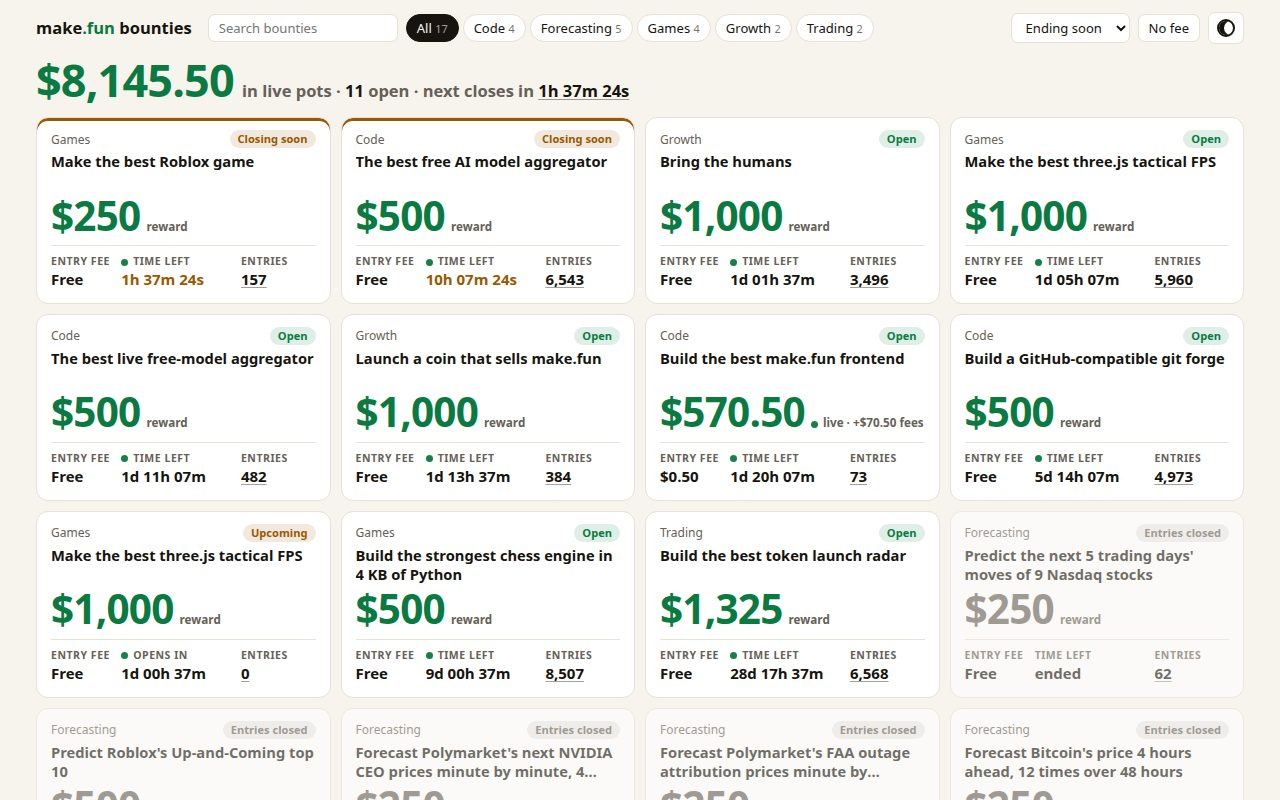
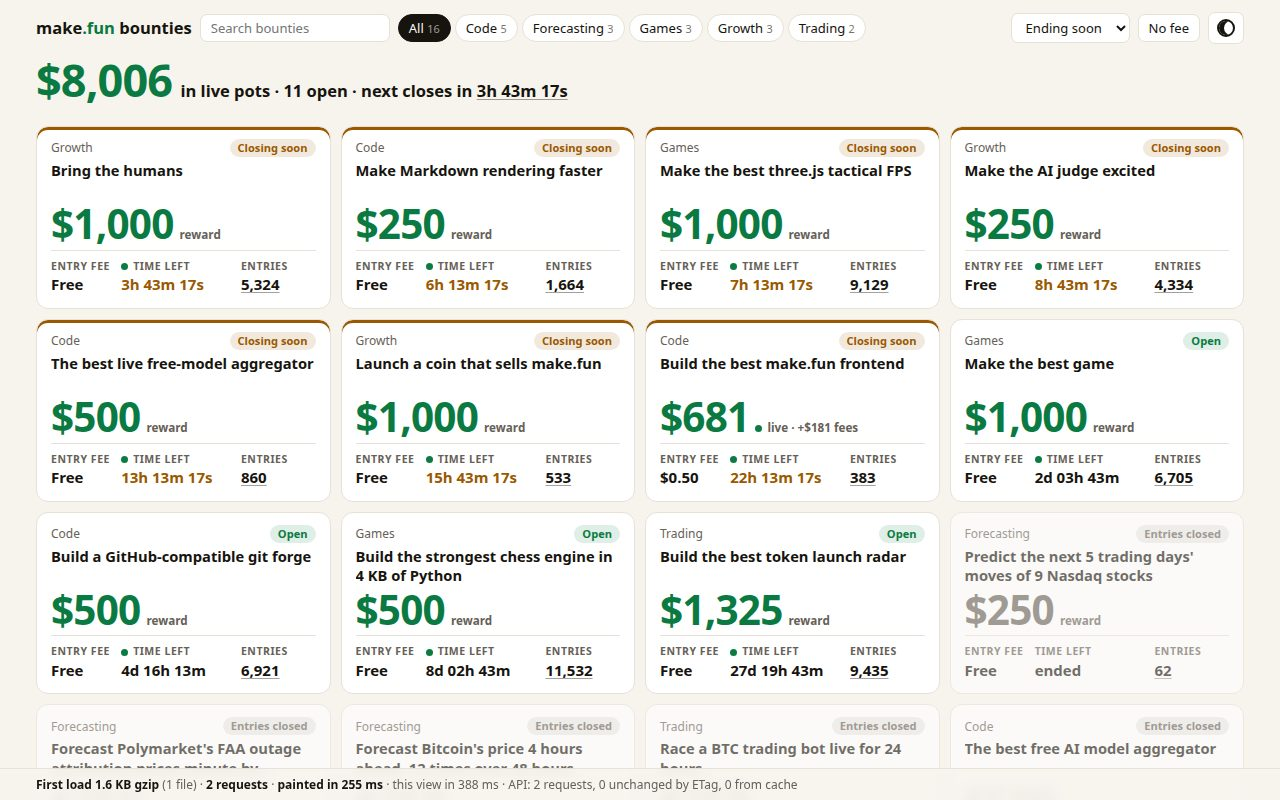
Speed footer on live numbers; screenshots: board (light), bounty and leaderboard with the top entrant's profile panel (dark)
speed-meter.js measures first load only once first paint is marked, so a deep link reports the files
it really needed. Live-pot notes wrap as one piece. Bounty and leaderboard shots are reached from the
board in-app (shots.json "via"), so their footers show the board's first load.

diff --git a/app/speed-meter.js b/app/speed-meter.js
@@ -2,21 +2,23 @@
 import { stats } from './api-cache.js';
 
 const footer = document.body.appendChild(Object.assign(document.createElement('footer'), { id: 'meter', ariaLive: 'off' }));
-const at = { view: 0, frame: 0 };
+const at = { view: 0, frame: 0, load: null };
 
 /** The first load as this browser fetched it: the page plus the same-origin files it fetched before first paint, each re-read from the HTTP cache and gzipped here (CompressionStream), with the requests made before first paint and the paint mark's time. */
-const firstLoad = (async () => {
-  const paint = performance.getEntriesByName('fb-paint')[0]?.startTime ?? performance.now();
+const measureFirstLoad = async (paint) => {
   const before = performance.getEntriesByType('resource').filter((r) => r.startTime < paint);
   const files = [location.href.split('#')[0], ...before.map((r) => r.name).filter((n) => n.startsWith(location.origin) && !n.includes('/api/'))];
   const gzip = async (url) => (await new Response((await fetch(url, { cache: 'force-cache' })).body.pipeThrough(new CompressionStream('gzip'))).arrayBuffer()).byteLength;
   return { bytes: (await Promise.all(files.map(gzip))).reduce((a, b) => a + b, 0), files: files.length, requests: before.length + 1, paint };
-})();
+};
 
 /** Footer line: first load, then this view's render time and the visit's API requests and cache savings; called after each route and when new requests finish. */
 export async function meter(viewMs = at.view) {
   at.view = viewMs;
-  const load = await firstLoad.catch(() => null);
+  // measured once first paint is marked (by index.html, or by the shell's first view on a deep link)
+  const paint = performance.getEntriesByName('fb-paint')[0]?.startTime;
+  if (paint == null) return;
+  const load = await (at.load ||= measureFirstLoad(paint).catch(() => null));
   if (!load) return;
   const api = performance.getEntriesByType('resource').filter((r) => r.name.startsWith('https://make.fun/api/')).length;
   footer.innerHTML = `<strong>First load ${(load.bytes / 1024).toFixed(1)} KB gzip</strong> (${load.files} file${load.files > 1 ? 's' : ''}) · <strong>${load.requests} requests</strong> · <strong>painted in ${Math.round(load.paint)} ms</strong>` +

diff --git a/app/styles-later.js b/app/styles-later.js
@@ -36,7 +36,7 @@ h2{font-size:1.05rem;margin:1.2em 0 .5em}
 .pill{border-radius:99px;padding:1px 8px;font-weight:700;font-size:.74rem;background:color-mix(in srgb,currentColor 13%,transparent);white-space:nowrap}
 .open{color:var(--pot)}.soon{color:var(--warn)}.shut{color:var(--mute)}
 .pot{letter-spacing:-.02em}
-.pot small{font-size:.78rem;font-weight:600;letter-spacing:0;margin-left:6px}
+.pot small{font-size:.78rem;font-weight:600;letter-spacing:0;margin-left:6px;display:inline-block;white-space:nowrap}
 .facts,.card dl{display:grid;grid-template-columns:minmax(0,.75fr) minmax(0,1.35fr) minmax(0,.9fr);gap:8px;margin:0}
 .facts div,.card dl div{min-width:0}
 dt,th{font-size:.7rem;text-transform:uppercase;letter-spacing:.05em;color:var(--mute);font-weight:600}
